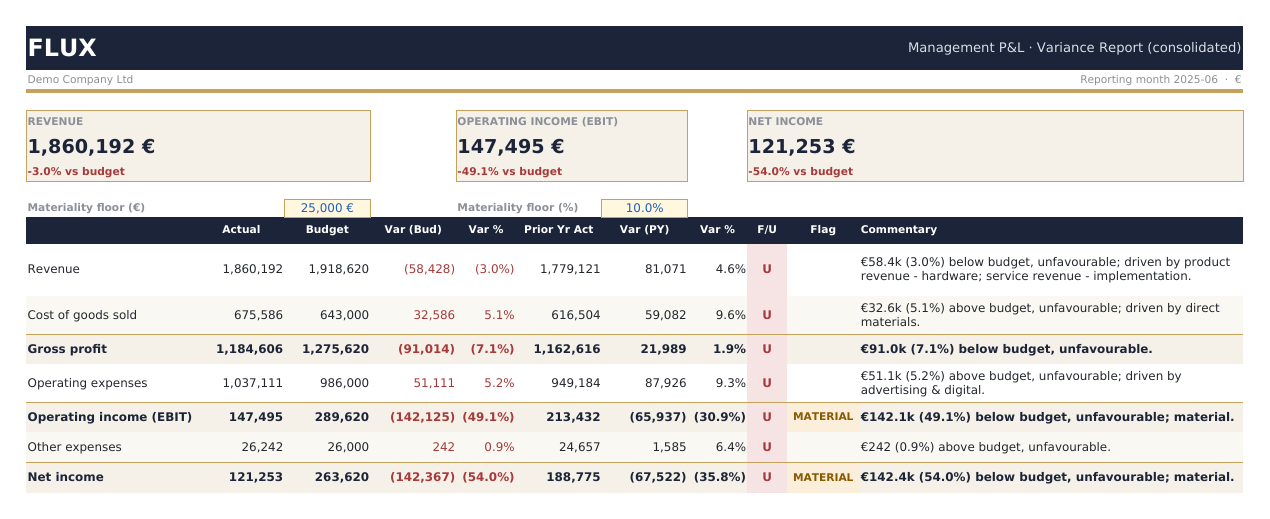
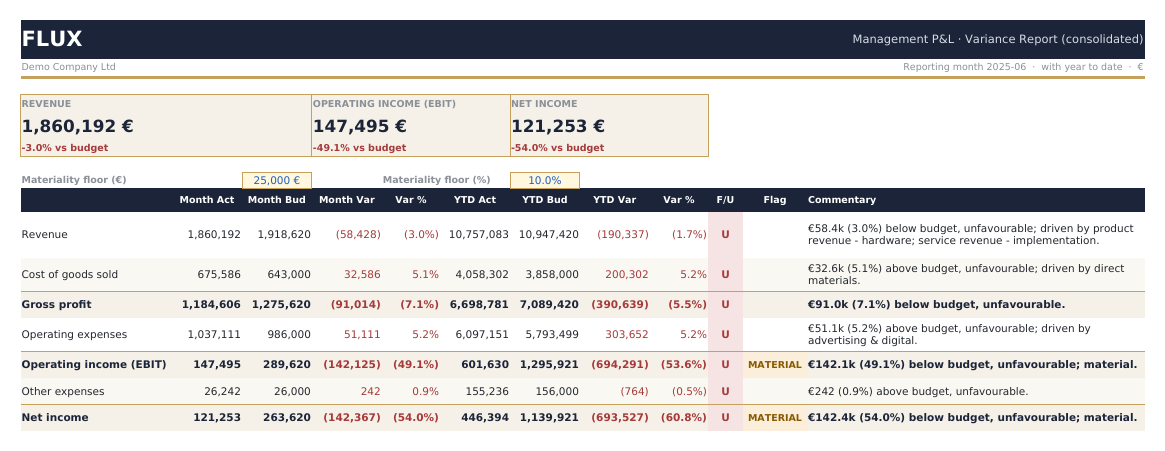
Split the P&L and the Outlook cleanly: no column on both sheets

Changed region(s): [[0.0, 0.031, 0.9888, 0.9623], [0.9579, 0.4035, 0.9888, 0.4656], [0.0, 0.4967, 0.0618, 0.5277]]

diff --git a/src/flux/reporting/demo_pack.py b/src/flux/reporting/demo_pack.py
@@ -237,68 +237,102 @@ def _write_budget(ws, bud, period) -> tuple[int, int]:
 # P&L Report
 # ===========================================================================
 def _write_pnl(ws, gl, glf, gll, bud, budf, budl, period, comments, report) -> None:
+    """The management P&L: the month and the year to date, side by side.
+
+    Month against budget answers what happened; year to date against budget
+    answers whether it is a pattern, and a reader asks the second question the
+    moment they have the first answer. The layout matches the client pack's
+    multi-period P&L, so the two packs cannot show the same report two ways.
+
+    Prior-year actuals move to the Budget sheet: a front page has room for one
+    secondary comparison, and against budget beats against last year.
+    """
     hide_grid(ws)
-    title_band(ws, "Management P&L · Variance Report (consolidated)", f"Reporting month {period}  ·  \u20ac", "K")
+    title_band(ws, "Management P&L · Variance Report (consolidated)",
+               f"Reporting month {period}  ·  with year to date  ·  \u20ac", "L")
     gR = lambda col: f"'{gl}'!${col}${glf}:${col}${gll}"
     bR = lambda col: f"'{bud}'!${col}${budf}:${col}${budl}"
+    perno = int(period[:4]) * 100 + int(period[5:7])
+    mflt = f',{gR(GL_PERIOD)},"{period}"'
+    mfltb = f',{bR(BUD_PERIOD)},"{period}"'
+    yflt = f',{gR(GL_PERNO)},"<={perno}"'
+    yfltb = f',{bR(BUD_PERNO)},"<={perno}"'
 
-    ws.merge_cells("A9:B9"); ws["A9"] = "Materiality floor (\u20ac)"; ws["A9"].font = F_LABEL; ws["A9"].alignment = LEFT
-    ws[LEVER_EUR] = DEFAULT_ABS_THRESHOLD; ws[LEVER_EUR].font = F_INPUT; ws[LEVER_EUR].number_format = CUR_EUR
+    ws.merge_cells("A9:B9"); ws["A9"] = "Materiality floor (\u20ac)"
+    ws["A9"].font = F_LABEL; ws["A9"].alignment = LEFT
+    ws[LEVER_EUR] = DEFAULT_ABS_THRESHOLD; ws[LEVER_EUR].font = F_INPUT
+    ws[LEVER_EUR].number_format = CUR_EUR
     ws[LEVER_EUR].fill = FILL_LEVER; ws[LEVER_EUR].alignment = CENTER
-    ws.merge_cells("E9:F9"); ws["E9"] = "Materiality floor (%)"; ws["E9"].font = F_LABEL; ws["E9"].alignment = LEFT
-    ws[LEVER_PCT] = DEFAULT_PCT_THRESHOLD; ws[LEVER_PCT].font = F_INPUT; ws[LEVER_PCT].number_format = PCT
+    ws.merge_cells("E9:F9"); ws["E9"] = "Materiality floor (%)"
+    ws["E9"].font = F_LABEL; ws["E9"].alignment = LEFT
+    ws[LEVER_PCT] = DEFAULT_PCT_THRESHOLD; ws[LEVER_PCT].font = F_INPUT
+    ws[LEVER_PCT].number_format = PCT
     ws[LEVER_PCT].fill = FILL_LEVER; ws[LEVER_PCT].alignment = CENTER
     outline(ws, 9, 3, 9, 3, GOLD_SIDE); outline(ws, 9, 7, 9, 7, GOLD_SIDE)
 
-    headers(ws, 10, ["", "Actual", "Budget", "Var (Bud)", "Var %", "Prior Yr Act",
-                      "Var (PY)", "Var %", "F/U", "Flag", "Commentary"], center_from=2, center_to=10)
+    headers(ws, 10, ["", "Month Act", "Month Bud", "Month Var", "Var %",
+                     "YTD Act", "YTD Bud", "YTD Var", "Var %", "F/U", "Flag",
+                     "Commentary"], center_from=2, center_to=11)
 
     subtotal_labels = {"Gross profit", "Operating income (EBIT)", "Net income"}
     label_row, first, r, cat_idx = {}, 11, 11, 0
     for line in PNL_STRUCTURE:
         A, B, C, D, E = f"A{r}", f"B{r}", f"C{r}", f"D{r}", f"E{r}"
-        Fc, G, H, I, J, K = f"F{r}", f"G{r}", f"H{r}", f"I{r}", f"J{r}", f"K{r}"
+        Fc, G, H, I = f"F{r}", f"G{r}", f"H{r}", f"I{r}"
+        J, K, Lc = f"J{r}", f"K{r}", f"L{r}"
         is_sub = line.label in subtotal_labels
         ws[A] = line.label
         if line.kind == "category":
-            ws[B] = f'=SUMIFS({gR(GL_EUR)},{gR(GL_CAT)},"{line.category}",{gR(GL_PERIOD)},"{period}")'
-            ws[C] = f'=SUMIFS({bR(BUD_BUD)},{bR(BUD_CAT)},"{line.category}",{bR(BUD_PERIOD)},"{period}")'
-            ws[Fc] = f'=SUMIFS({bR(BUD_PRIOR)},{bR(BUD_CAT)},"{line.category}",{bR(BUD_PERIOD)},"{period}")'
+            ws[B] = f'=SUMIFS({gR(GL_EUR)},{gR(GL_CAT)},"{line.category}"{mflt})'
+            ws[C] = f'=SUMIFS({bR(BUD_BUD)},{bR(BUD_CAT)},"{line.category}"{mfltb})'
+            ws[Fc] = f'=SUMIFS({gR(GL_EUR)},{gR(GL_CAT)},"{line.category}"{yflt})'
+            ws[G] = f'=SUMIFS({bR(BUD_BUD)},{bR(BUD_CAT)},"{line.category}"{yfltb})'
         else:
-            pb, pc, pf = [], [], []
+            pb, pc, pf, pg = [], [], [], []
             for sign, ref in line.components:
-                rr = label_row[ref]; pb.append(f"{sign}B{rr}"); pc.append(f"{sign}C{rr}"); pf.append(f"{sign}F{rr}")
-            ws[B] = "=" + "".join(pb); ws[C] = "=" + "".join(pc); ws[Fc] = "=" + "".join(pf)
+                rr = label_row[ref]
+                pb.append(f"{sign}B{rr}"); pc.append(f"{sign}C{rr}")
+                pf.append(f"{sign}F{rr}"); pg.append(f"{sign}G{rr}")
+            ws[B] = "=" + "".join(pb); ws[C] = "=" + "".join(pc)
+            ws[Fc] = "=" + "".join(pf); ws[G] = "=" + "".join(pg)
         ws[D] = f"={B}-{C}"; ws[E] = pct_f(D, C)
-        ws[G] = f"={B}-{Fc}"; ws[H] = pct_f(G, Fc)
-        ws[I] = f'=IF({D}>=0,"F","U")' if line.favourable == FAV_HIGHER else f'=IF({D}<=0,"F","U")'
-        ws[J] = flag_f(D, E, LEV_E, LEV_P)
-        base_fill = FILL_IVORY if is_sub else (FILL_BAND if cat_idx % 2 else FILL_WHITE)
+        ws[H] = f"={Fc}-{G}"; ws[I] = pct_f(H, G)
+        ws[J] = (f'=IF({D}>=0,"F","U")' if line.favourable == FAV_HIGHER
+                 else f'=IF({D}<=0,"F","U")')
+        ws[K] = flag_f(D, E, LEV_E, LEV_P)
+
+        base_fill = FILL_IVORY if is_sub else band_fill(cat_idx)
         if not is_sub:
             cat_idx += 1
-        for col in "ABCDEFGHIJK":
+        for col in "ABCDEFGHIJKL":
             ws[f"{col}{r}"].fill = base_fill
-        for col in ("B", "C", "D", "F", "G"):
-            cc = ws[f"{col}{r}"]; cc.number_format = CUR; cc.alignment = RIGHT; cc.font = F_SUB if is_sub else F_BODY
-        for col in ("E", "H"):
-            cc = ws[f"{col}{r}"]; cc.number_format = PCT; cc.alignment = RIGHT; cc.font = F_SUB if is_sub else F_BODY
+        for col in ("B", "C", "D", "F", "G", "H"):
+            cell = ws[f"{col}{r}"]
+            cell.number_format = CUR; cell.alignment = RIGHT
+            cell.font = F_SUB if is_sub else F_BODY
+        for col in ("E", "I"):
+            cell = ws[f"{col}{r}"]
+            cell.number_format = PCT; cell.alignment = RIGHT
+            cell.font = F_SUB if is_sub else F_BODY
         ws[A].font = F_SUB if is_sub else F_BODY; ws[A].alignment = LEFT
-        ws[I].alignment = CENTER; ws[I].font = F_FU
-        ws[J].alignment = CENTER; ws[J].font = F_FLAG
+        ws[J].alignment = CENTER; ws[J].font = F_FU
+        ws[K].alignment = CENTER; ws[K].font = F_FLAG
         comment = comments.get(line.label, "")
-        kc = ws[K]; kc.value = comment; kc.alignment = WRAP
+        kc = ws[Lc]; kc.value = comment; kc.alignment = WRAP
         kc.font = F_SUB if is_sub else F_BODY
         if is_sub:
-            for col in "ABCDEFGHIJK":
+            for col in "ABCDEFGHIJKL":
                 ws[f"{col}{r}"].border = SUBTOTAL_TOP
         ws.row_dimensions[r].height = wrapped_height(comment, COMMENT_WIDTH)
         label_row[line.label] = r; r += 1
     last = r - 1
-    badge_cf(ws, f"I{first}:I{last}", f"J{first}:J{last}")
-    variance_cf(ws, f"D{first}:E{last}", f"$I{first}")
+    badge_cf(ws, f"J{first}:J{last}", f"K{first}:K{last}")
+    variance_cf(ws, f"D{first}:E{last}", f"$J{first}")
+    variance_cf(ws, f"H{first}:I{last}", f"$J{first}")
 
+    # ---- KPI cards ----
     cards = [("REVENUE", "Revenue"), ("OPERATING INCOME (EBIT)", "Operating income (EBIT)"), ("NET INCOME", "Net income")]
-    for (title, key), (c1, c2) in zip(cards, [(1, 3), (5, 7), (9, 11)]):
+    for (title, key), (c1, c2) in zip(cards, [(1, 3), (4, 6), (7, 9)]):
         lr = label_row[key]; fav = report[report["line"] == key].iloc[0]["fav_unfav"] == "F"
         L = get_column_letter(c1); Rt = get_column_letter(c2)
         for rr in (5, 6, 7):
@@ -316,7 +350,7 @@ def _write_pnl(ws, gl, glf, gll, bud, budf, budl, period, comments, report) -> N
         outline(ws, 5, c1, 7, c2, GOLD_SIDE)
     ws.row_dimensions[5].height = 18; ws.row_dimensions[6].height = 26; ws.row_dimensions[7].height = 16
 
-    widths(ws, [26, 13, 13, 13, 9, 13, 13, 9, 6, 11, COMMENT_WIDTH])
+    widths(ws, [26, 12, 12, 12, 10, 12, 12, 12, 10, 6, 11, COMMENT_WIDTH])
     quiet_indicators(ws, 5, last)
     ws.freeze_panes = f"A{first}"
 
@@ -434,7 +468,12 @@ def _write_expense_report(ws, gl, glf, gll, bud, budf, budl, period) -> None:
 
 
 def _write_outlook(ws, gl, glf, gll, bud, budf, budl, period) -> None:
-    """Year to date and where the full year lands if nothing changes.
+    """Where the full year lands if nothing changes.
+
+    The year-to-date variance lives on the P&L, beside the month, which is where
+    a reader compares them. This sheet does not repeat it: it carries the year to
+    date only as the basis the projections are built from, and spends its width
+    on the two things the P&L cannot say.
 
     Two projections, not one, because neither alone is honest. The run rate
     assumes the rest of the year behaves like the year so far; plan-for-the-rest
@@ -446,8 +485,8 @@ def _write_outlook(ws, gl, glf, gll, bud, budf, budl, period) -> None:
     different close without rebuilding the pack.
     """
     hide_grid(ws)
-    title_band(ws, "Year to Date & Full-Year Outlook",
-               f"Through {period}  ·  FY {period[:4]}  ·  \u20ac", "L")
+    title_band(ws, "Full-Year Outlook · run rate and plan for the rest",
+               f"Through {period}  ·  FY {period[:4]}  ·  \u20ac", "J")
     gR = lambda col: f"'{gl}'!${col}${glf}:${col}${gll}"
     bR = lambda col: f"'{bud}'!${col}${budf}:${col}${budl}"
     perno = int(period[:4]) * 100 + int(period[5:7])
@@ -461,75 +500,72 @@ def _write_outlook(ws, gl, glf, gll, bud, budf, budl, period) -> None:
     ws["C9"].number_format = "0"; ws["C9"].fill = FILL_LEVER; ws["C9"].alignment = CENTER
     outline(ws, 9, 3, 9, 3, GOLD_SIDE)
     # Across to the last column: merged only to H, the sentence was clipped.
-    ws.merge_cells("E9:L9")
+    ws.merge_cells("E9:J9")
     ws["E9"] = ("Run rate projects the year as the year so far; "
                 "Plan for rest assumes the remaining months hit budget.")
     ws["E9"].font = F_NOTE; ws["E9"].alignment = LEFT
 
-    headers(ws, 10, ["", "YTD Act", "YTD Bud", "YTD Var", "Var %",
-                     "FY Budget", "FY used", "Run rate FY", "Plan for rest FY",
-                     "Var to FY Bud", "F/U", "Flag"], center_from=2, center_to=11)
+    # No YTD variance column: that comparison is on the P&L, and repeating it
+    # here would put the same four numbers in the pack twice.
+    headers(ws, 10, ["", "YTD Act", "YTD Bud", "FY Budget", "FY used",
+                     "Run rate FY", "Plan for rest FY", "Var to FY Bud",
+                     "F/U", "Flag"], center_from=2, center_to=9)
 
     subs = {"Gross profit", "Operating income (EBIT)", "Net income"}
     label_row, first, r, ci = {}, 11, 11, 0
     for line in PNL_STRUCTURE:
-        cols = {c: f"{c}{r}" for c in "ABCDEFGHIJKL"}
-        A, B, C, D, E = (cols[c] for c in "ABCDE")
-        Fc, G, H, I, J, K, L = (cols[c] for c in "FGHIJKL")
+        cols = {c: f"{c}{r}" for c in "ABCDEFGHIJ"}
+        A, B, C = (cols[c] for c in "ABC")
+        D, E, Fc, G, H, I, J = (cols[c] for c in "DEFGHIJ")
         is_sub = line.label in subs
         ws[A] = line.label
         if line.kind == "category":
             ws[B] = f'=SUMIFS({gR(GL_EUR)},{gR(GL_CAT)},"{line.category}",{ytd_gl})'
             ws[C] = f'=SUMIFS({bR(BUD_BUD)},{bR(BUD_CAT)},"{line.category}",{ytd_bd})'
-            ws[Fc] = f'=SUMIFS({bR(BUD_BUD)},{bR(BUD_CAT)},"{line.category}")'
+            ws[D] = f'=SUMIFS({bR(BUD_BUD)},{bR(BUD_CAT)},"{line.category}")'
         else:
             pb, pc, pf = [], [], []
             for sign, ref in line.components:
                 rr = label_row[ref]
-                pb.append(f"{sign}B{rr}"); pc.append(f"{sign}C{rr}"); pf.append(f"{sign}F{rr}")
+                pb.append(f"{sign}B{rr}"); pc.append(f"{sign}C{rr}"); pf.append(f"{sign}D{rr}")
             ws[B] = "=" + "".join(pb)
             ws[C] = "=" + "".join(pc)
-            ws[Fc] = "=" + "".join(pf)
-        ws[D] = f"={B}-{C}"
-        ws[E] = pct_f(D, C)
-        ws[G] = f'=IF({Fc}=0,"",{B}/{Fc})'
+            ws[D] = "=" + "".join(pf)
+        ws[E] = f'=IF({D}=0,"",{B}/{D})'
         # Run rate: the year so far, extended over twelve months.
-        ws[H] = f'=IF($C$9=0,"",{B}/$C$9*12)'
+        ws[Fc] = f'=IF($C$9=0,"",{B}/$C$9*12)'
         # Plan for the rest: actual to date plus the unspent part of the plan.
-        ws[I] = f"={B}+({Fc}-{C})"
-        ws[J] = f"={H}-{Fc}"
-        ws[K] = (f'=IF({J}>=0,"F","U")' if line.favourable == FAV_HIGHER
-                 else f'=IF({J}<=0,"F","U")')
-        ws[L] = flag_f(J, f'IF({Fc}=0,"",{J}/ABS({Fc}))', PL_E, PL_P)
+        ws[G] = f"={B}+({D}-{C})"
+        ws[H] = f"={Fc}-{D}"
+        ws[I] = (f'=IF({H}>=0,"F","U")' if line.favourable == FAV_HIGHER
+                 else f'=IF({H}<=0,"F","U")')
+        ws[J] = flag_f(H, f'IF({D}=0,"",{H}/ABS({D}))', PL_E, PL_P)
 
         fill = FILL_IVORY if is_sub else band_fill(ci)
         if not is_sub:
             ci += 1
-        for c in "ABCDEFGHIJKL":
+        for c in "ABCDEFGHIJ":
             ws[f"{c}{r}"].fill = fill
-        for c in ("B", "C", "D", "F", "H", "I", "J"):
+        for c in ("B", "C", "D", "F", "G", "H"):
             cell = ws[f"{c}{r}"]
             cell.number_format = CUR; cell.alignment = RIGHT
             cell.font = F_SUB if is_sub else F_BODY
-        for c in ("E", "G"):
-            cell = ws[f"{c}{r}"]
-            cell.number_format = PCT; cell.alignment = RIGHT
-            cell.font = F_SUB if is_sub else F_BODY
+        cell = ws[E]; cell.number_format = PCT; cell.alignment = RIGHT
+        cell.font = F_SUB if is_sub else F_BODY
         ws[A].font = F_SUB if is_sub else F_BODY; ws[A].alignment = LEFT
-        ws[K].alignment = CENTER; ws[K].font = F_FU
-        ws[L].alignment = CENTER; ws[L].font = F_FLAG
+        ws[I].alignment = CENTER; ws[I].font = F_FU
+        ws[J].alignment = CENTER; ws[J].font = F_FLAG
         if is_sub:
-            for c in "ABCDEFGHIJKL":
+            for c in "ABCDEFGHIJ":
                 ws[f"{c}{r}"].border = SUBTOTAL_TOP
         ws.row_dimensions[r].height = 20
         label_row[line.label] = r
         r += 1
     last = r - 1
 
-    badge_cf(ws, f"K{first}:K{last}", f"L{first}:L{last}")
-    variance_cf(ws, f"D{first}:E{last}", f"$K{first}")
-    variance_cf(ws, f"J{first}:J{last}", f"$K{first}")
-    widths(ws, [26, 14, 14, 13, 9, 14, 9, 14, 15, 14, 6, 11])
+    badge_cf(ws, f"I{first}:I{last}", f"J{first}:J{last}")
+    variance_cf(ws, f"H{first}:H{last}", f"$I{first}")
+    widths(ws, [26, 15, 15, 15, 10, 15, 16, 15, 6, 11])
     fit_text_columns(ws, ["A"], first, last)
     ws.cell(row=last + 2, column=1,
             value="Projections are arithmetic, not a forecast: no seasonality, no "
@@ -765,13 +801,13 @@ def build_demo_pack(period: str, out_path: str | Path, seed: int = 42) -> Path:
 
     GL, BUD = "GL Transactions", "Budget"
     _write_pnl(wb.create_sheet("P&L Report"), GL, glf, gll, BUD, budf, budl, period, comments, report)
-    _write_outlook(wb.create_sheet("YTD & Outlook"), GL, glf, gll, BUD, budf, budl, period)
+    _write_outlook(wb.create_sheet("Outlook"), GL, glf, gll, BUD, budf, budl, period)
     _write_expense_report(wb.create_sheet("Expense Report"), GL, glf, gll, BUD, budf, budl, period)
     _write_by_entity(wb.create_sheet("By Entity"), ent_var, GL, glf, gll, BUD, budf, budl, period)
     _write_cost_centres(wb.create_sheet("Departments & CCs"), dept_var, GL, glf, gll, BUD, budf, budl, period)
     _write_drivers(wb.create_sheet("Drivers"), agg, GL, glf, gll, BUD, budf, budl, period)
 
-    desired = ["P&L Report", "YTD & Outlook", "Expense Report", "By Entity",
+    desired = ["P&L Report", "Outlook", "Expense Report", "By Entity",
                "Departments & CCs", "Drivers", "Budget", "GL Transactions"]
     for i, name in enumerate(desired):
         wb.move_sheet(name, -wb.sheetnames.index(name) + i)

diff --git a/tests/audit.py b/tests/audit.py
@@ -505,7 +505,7 @@ def test_workbooks() -> None:
 
     demo = build_demo_pack(PERIOD, tmp / "demo.xlsx")
     wb = _load(demo)
-    expected = ["P&L Report", "YTD & Outlook", "Expense Report", "By Entity",
+    expected = ["P&L Report", "Outlook", "Expense Report", "By Entity",
                 "Departments & CCs", "Drivers", "Budget", "GL Transactions"]
     check("Demo pack has every sheet in reading order",
           wb.sheetnames == expected, str(wb.sheetnames))

diff --git a/README.md b/README.md
@@ -48,7 +48,7 @@ automates.
 
 ## Screenshots
 
-**Management P&L — KPI cards, variances, materiality flags and commentary**
+**Management P&L — month and year to date, with materiality flags and commentary**
 
 ![Management P&L with variances, F/U badges and per-line commentary](docs/pnl-report.png)
 
@@ -64,9 +64,9 @@ automates.
 
 ![Department spend variance with cost centres nested beneath each department](docs/departments.png)
 
-**YTD & Outlook — the year so far, and where it lands on two stated assumptions**
+**Outlook — where the year lands on two stated assumptions**
 
-![Year-to-date P&L with run-rate and plan-for-the-rest full-year projections](docs/ytd-outlook.png)
+![Full-year projections by run rate and by plan for the rest, against the annual budget](docs/outlook.png)
 
 **PowerPoint deck — the same numbers as seven slides, for sending upward**
 
@@ -122,7 +122,7 @@ The pack projects the full year two ways, because neither alone is honest:
 
 The outcome usually sits between them, and the gap between the two is itself the
 message: it is the size of what the remaining months have to make up. Months
-elapsed is an editable cell on the workbook's *YTD & Outlook* sheet, so the
+elapsed is an editable cell on the workbook's *Outlook* sheet, so the
 projection recalculates for a different close without rebuilding the pack.
 
 Neither is a forecast. There is no seasonality, no pipeline and no assumed
@@ -172,7 +172,7 @@ a fiscal year must not be read as an amount, so Flux asks rather than assumes.
 | Sheet | Needs |
 | --- | --- |
 | P&L Report, Drivers, GL Input | always |
-| YTD & Outlook | more than one period |
+| Outlook | more than one period |
 | Expense Report | an expense-type column |
 | Departments & Cost Centres | a department column (cost centre nests under it) |
 | By Entity | more than one entity |
